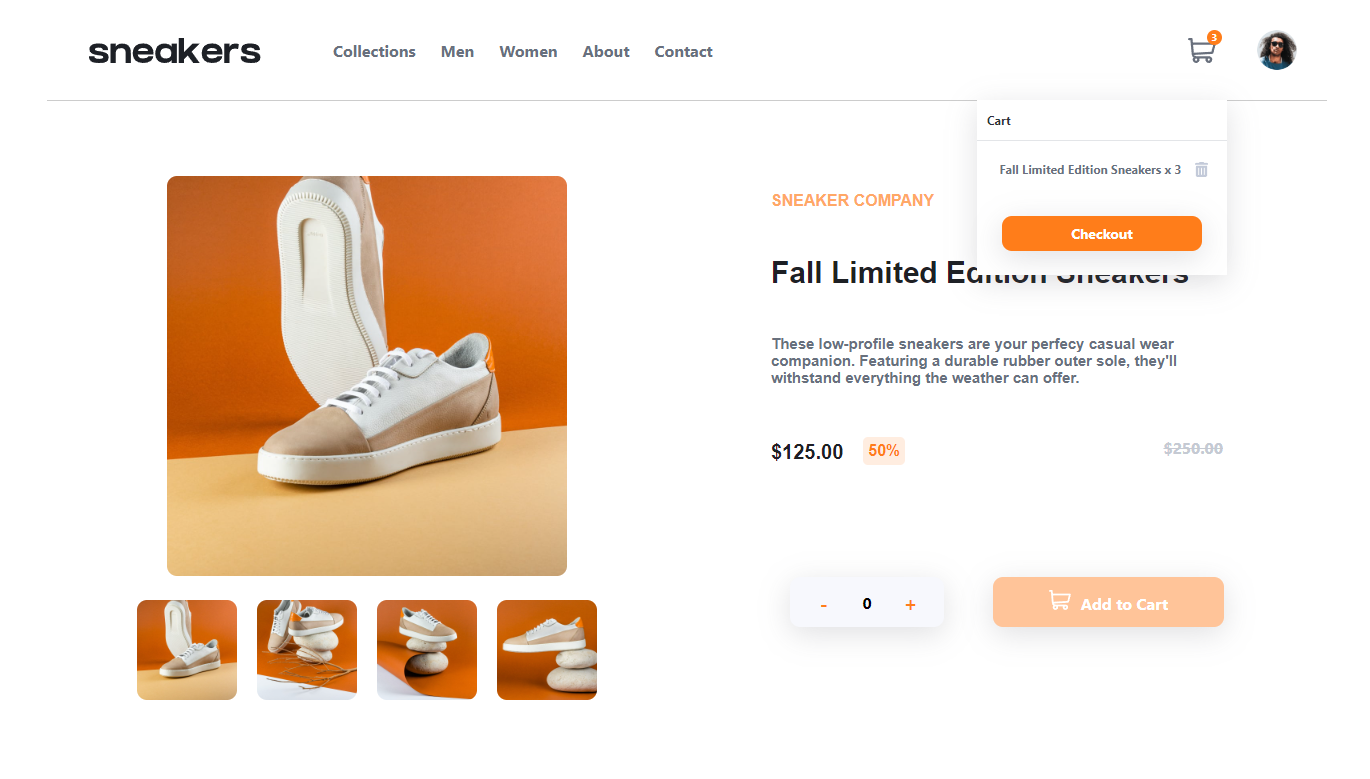
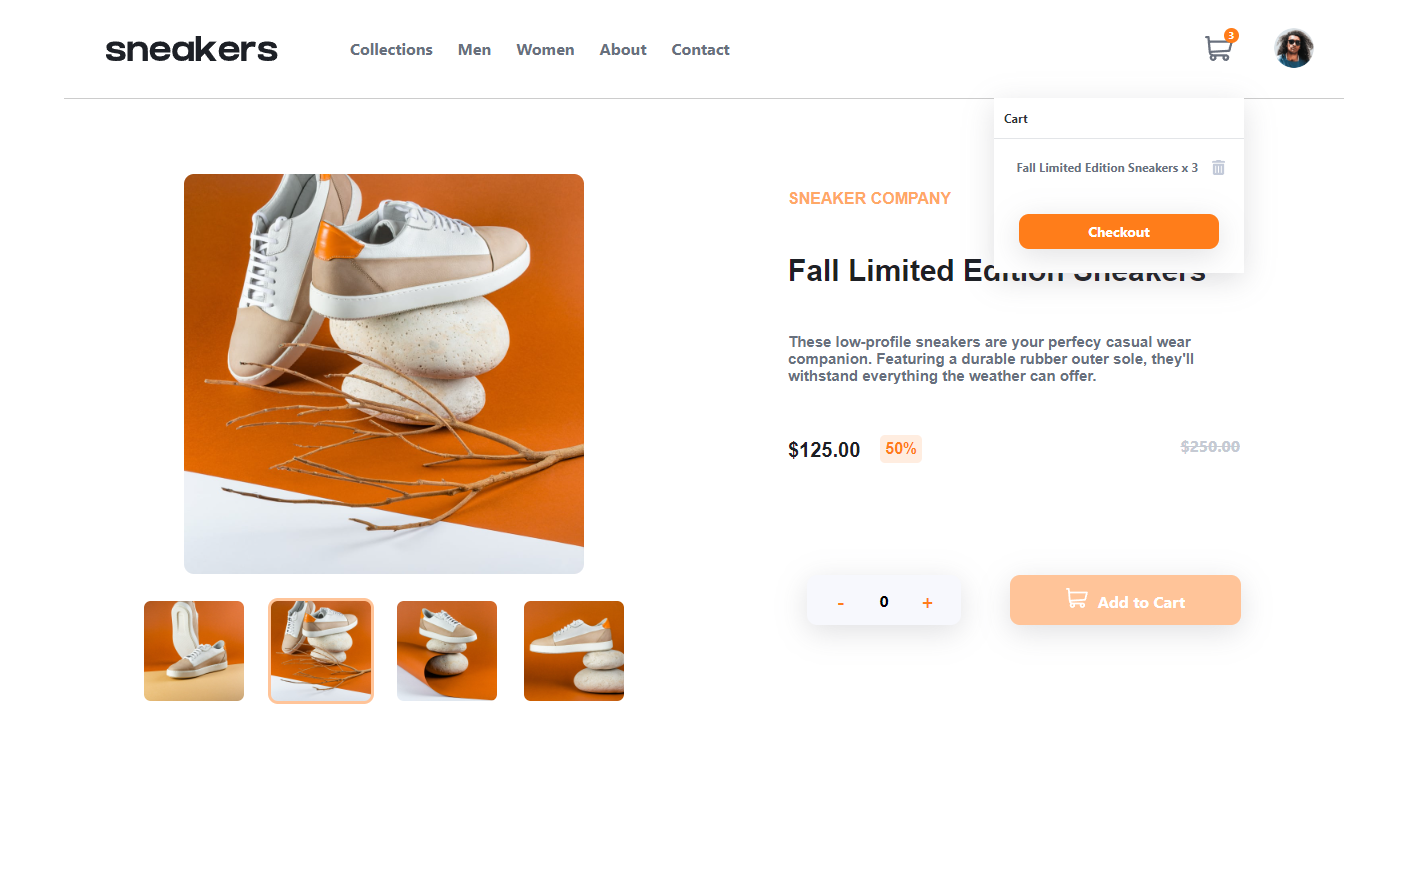
styling photo gallery and expanded image

diff --git a/src/components/ProductPhoto/ProductPhoto.js b/src/components/ProductPhoto/ProductPhoto.js
@@ -20,16 +20,32 @@ const ProductPhoto = () => {
             </div>
             <div className="photo-reel">
                 <div className="column">
-                    <img src={galleryExpanded1} id='galleryExpanded1' alt="first" onClick={expandImg}></img>
+                    <img 
+                        src={galleryExpanded1}  
+                        alt="first" 
+                        onClick={expandImg}>
+                    </img>
                 </div>
                 <div className="column">
-                    <img src={galleryExpanded2} id='galleryExpanded2' alt="second" onClick={expandImg}></img>
+                    <img 
+                        src={galleryExpanded2}  
+                        alt="second" 
+                        onClick={expandImg}>
+                    </img>
                 </div>
                 <div className="column">
-                    <img src={galleryExpanded3} id='galleryExpanded3' alt="third" onClick={expandImg}></img>
+                    <img 
+                        src={galleryExpanded3}  
+                        alt="third" 
+                        onClick={expandImg}>
+                    </img>
                 </div>
                 <div className="column">
-                    <img src={galleryExpanded4} id='galleryExpanded4' alt="fourth" onClick={expandImg}></img>
+                    <img 
+                        src={galleryExpanded4}  
+                        alt="fourth" 
+                        onClick={expandImg}>
+                    </img>
                 </div>
             </div>
 

diff --git a/src/components/ProductPhoto/ProductPhoto.css b/src/components/ProductPhoto/ProductPhoto.css
@@ -24,15 +24,24 @@
     margin-left: auto;
     margin-right: auto;
 }
+
 .column {
     height: 100%;
 }
 .column img {
+    cursor: pointer;
     height: 100%;
     width: 100px;
     margin-left: 10px;
     margin-right: 10px;
     border-radius: 10px;
+    padding: 0.2rem;
+}
+.column img:hover {
+    background-color: hsl(25, 100%, 80%);
+}
+.column img:focus {
+    background-color: hsl(25, 100%, 80%);
 }
 
 @media (max-width: 500px) {
